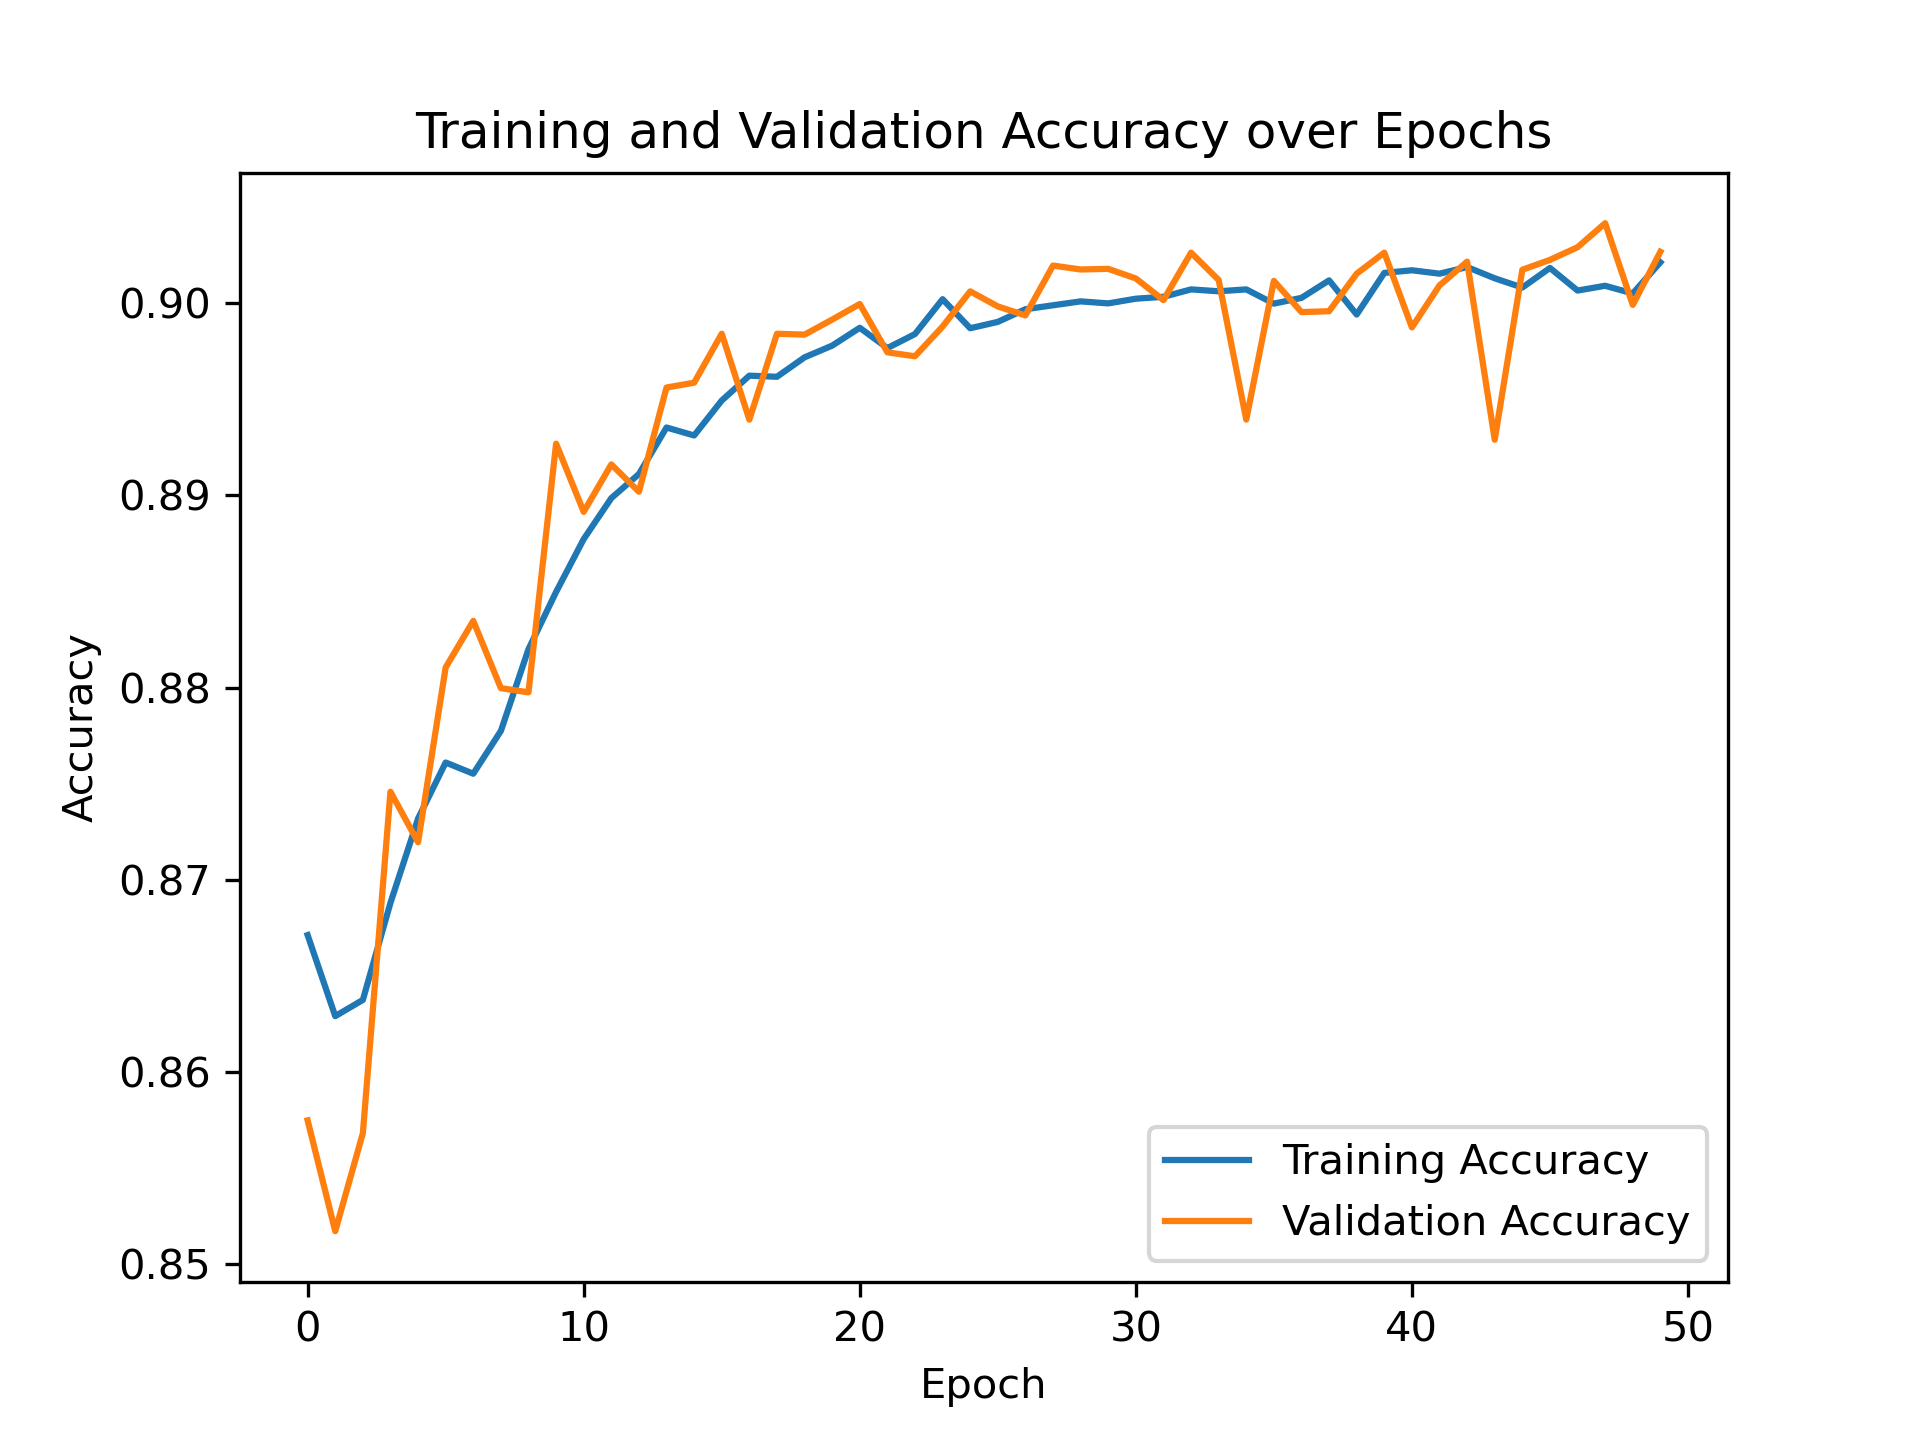
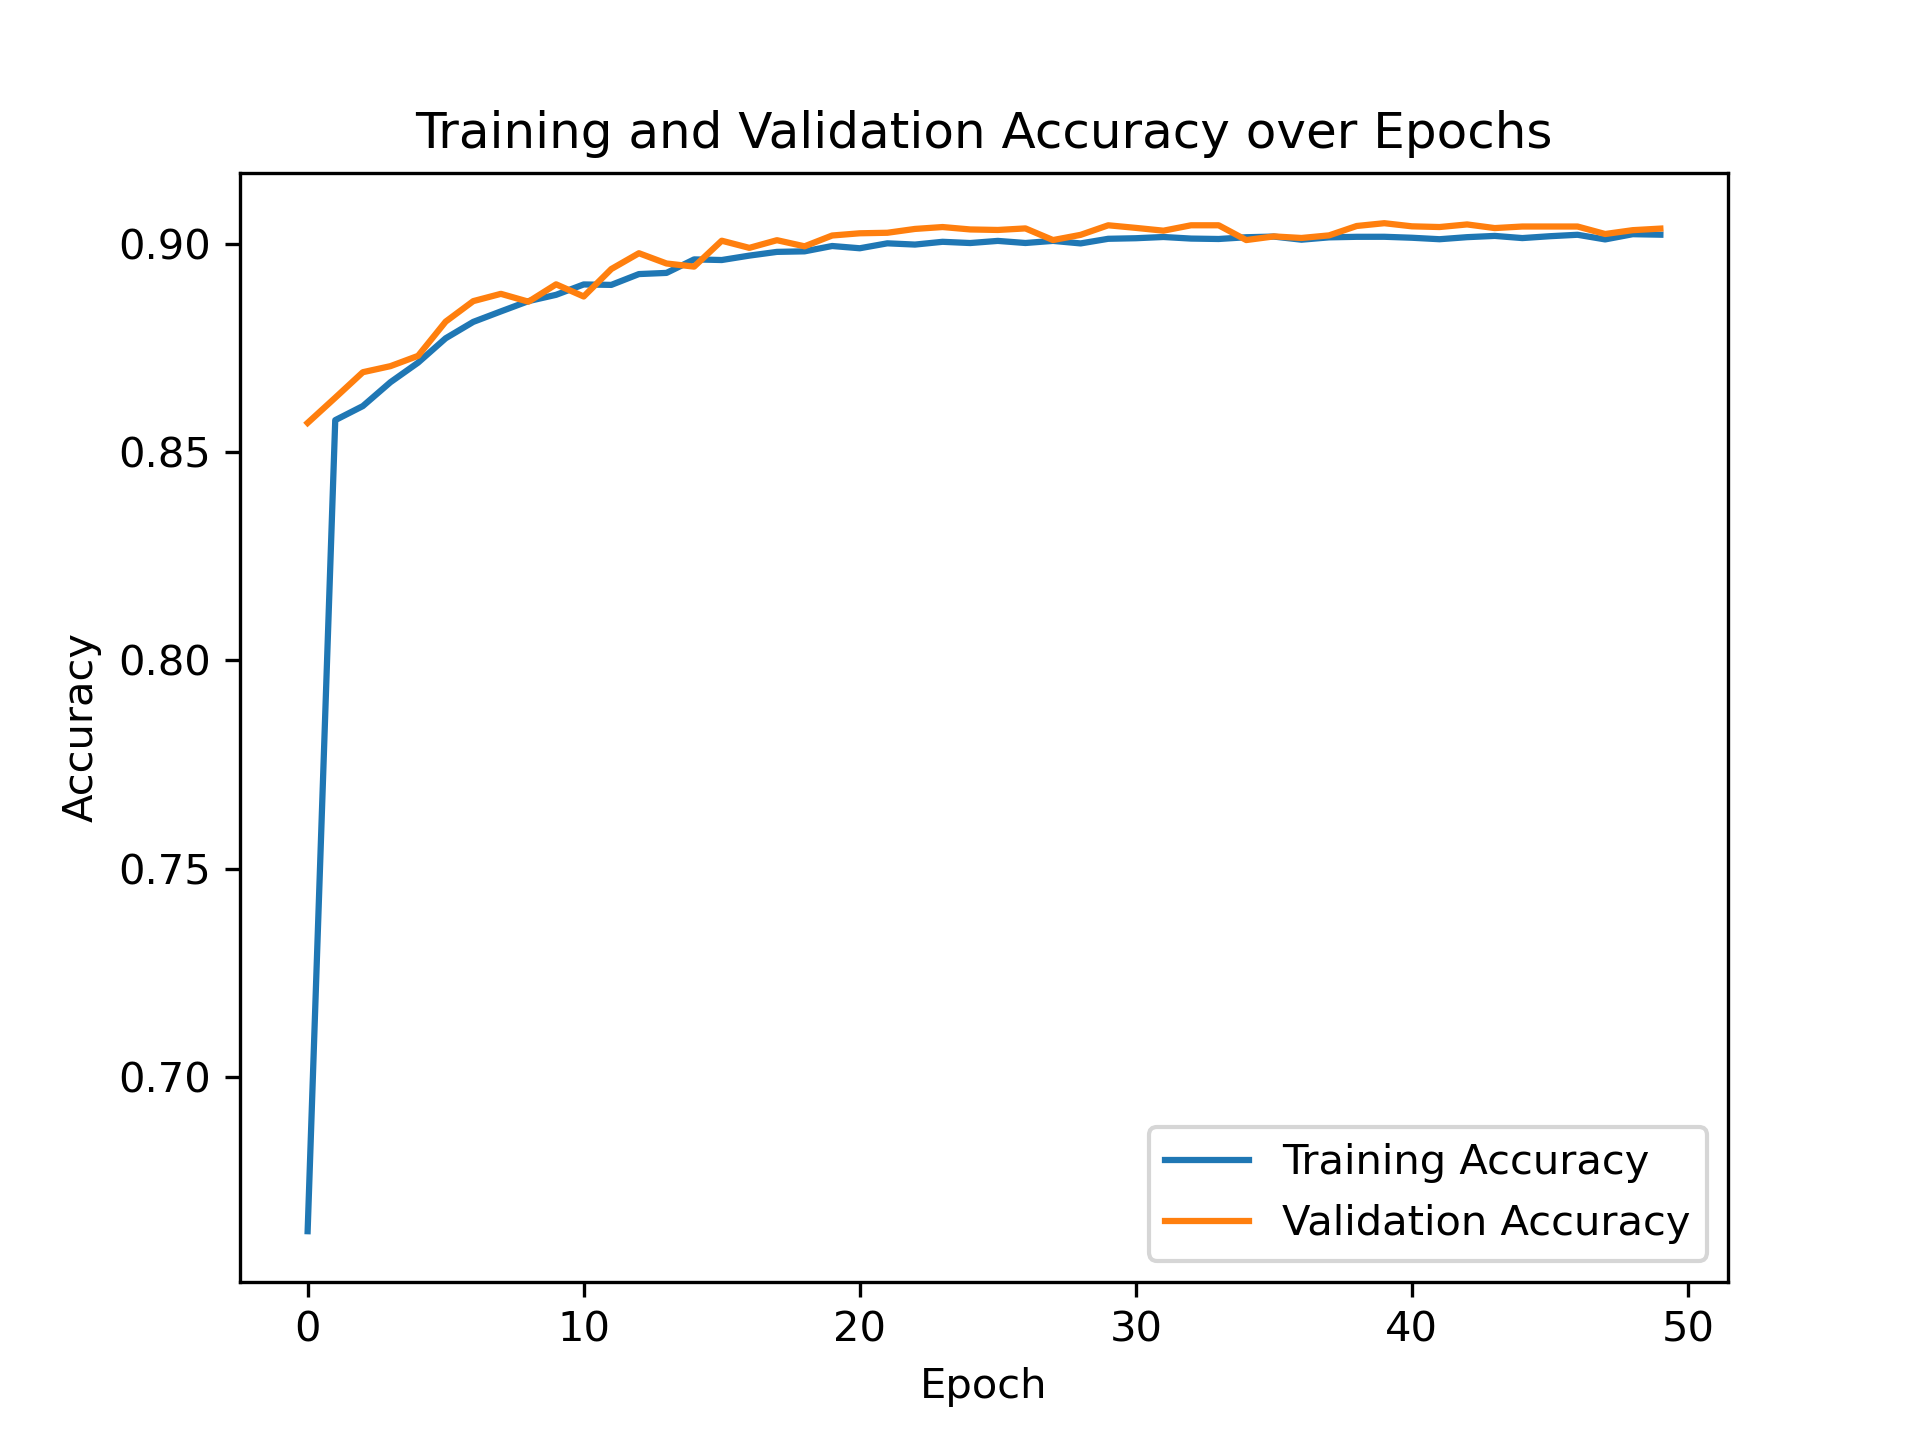
computed correlation comparisons between NN model predicted probabilities and BMI

diff --git a/analyze_model.py b/analyze_model.py
@@ -6,6 +6,7 @@ import numpy as np
 
 from data import IBMIDataset
 from network import MultivariateLogisticRegression
+from deep_neural_network import DeepNeuralNetwork
 from torch.utils.data import DataLoader
 
 def plot_loss_curve(train_losses, val_losses, save_path):
@@ -32,20 +33,20 @@ def plot_accuracy_curve(train_accuracies, val_accuracies, save_path):
 
 def analyze_model(model, data_loader, device, output_dir):
     
-    # analyze model weights
-    weights = model.linear.weight.data.cpu().numpy()
-    num_conditions = weights.shape[0]
-    feature_names = data_loader.dataset.features.columns.tolist()
-    # take L2 norm of weights for each feature across all conditions, to get overall importance
-    weight_magnitudes = np.linalg.norm(weights, axis=0)
-    feature_importance = pd.DataFrame({
-        'Feature': feature_names,
-        'Weight_Magnitude': weight_magnitudes
-    }).sort_values(by='Weight_Magnitude', ascending=False)
-    feature_importance.to_csv(os.path.join(output_dir, "feature_importance.csv"), index=False)
+    # # analyze model weights
+    # weights = model.linear.weight.data.cpu().numpy()
+    # num_conditions = weights.shape[0]
+    # feature_names = data_loader.dataset.features.columns.tolist()
+    # # take L2 norm of weights for each feature across all conditions, to get overall importance
+    # weight_magnitudes = np.linalg.norm(weights, axis=0)
+    # feature_importance = pd.DataFrame({
+    #     'Feature': feature_names,
+    #     'Weight_Magnitude': weight_magnitudes
+    # }).sort_values(by='Weight_Magnitude', ascending=False)
+    # feature_importance.to_csv(os.path.join(output_dir, "feature_importance.csv"), index=False)
 
     # plot loss and accuracy curves
-    loss_csv_path = os.path.join(MODEL_DIR, "training_loss.csv")
+    loss_csv_path = os.path.join(MODEL_DIR, "nn_training_history_dnn.csv")
     if os.path.exists(loss_csv_path):
         loss_df = pd.read_csv(loss_csv_path)
         train_losses = loss_df['train_loss'].tolist()
@@ -53,16 +54,46 @@ def analyze_model(model, data_loader, device, output_dir):
         train_accuracies = loss_df['train_accuracy'].tolist()
         val_accuracies = loss_df['val_accuracy'].tolist()
 
-        plot_loss_curve(train_losses, val_losses, os.path.join(output_dir, "loss_curve.png"))
-        plot_accuracy_curve(train_accuracies, val_accuracies, os.path.join(output_dir, "accuracy_curve.png"))
+        plot_loss_curve(train_losses, val_losses, os.path.join(output_dir, "loss_curve_nn.png"))
+        plot_accuracy_curve(train_accuracies, val_accuracies, os.path.join(output_dir, "accuracy_curve_nn.png"))
 
+# Compute correlation between model probabilities and true value, vs BMI and true value
+def compute_correlation(model, data_loader, bmi, device, output_dir):
+    model.eval()
+    all_outputs = []
+    all_labels = []
+    with torch.no_grad():
+        for batch in data_loader:
+            features = batch['features'].to(device)
+            labels = batch['labels'].to(device)
+            outputs = model(features)
+            all_outputs.append(outputs.cpu().numpy())
+            all_labels.append(labels.cpu().numpy())
+    all_outputs = np.vstack(all_outputs)
+    all_labels = np.vstack(all_labels)
+
+    correlations_model = []
+    correlations_bmi = []
+    num_conditions = all_labels.shape[1]
+    for i in range(num_conditions):
+        corr_model = np.corrcoef(all_outputs[:, i], all_labels[:, i])[0, 1]
+        corr_bmi = np.corrcoef(bmi, all_labels[:, i])[0, 1]
+        correlations_model.append(corr_model)
+        correlations_bmi.append(corr_bmi)
+
+    correlation_df = pd.DataFrame({
+        'Condition': data_loader.dataset.label_cols,
+        'Correlation_Model': correlations_model,
+        'Correlation_BMI': correlations_bmi
+    })
+    correlation_df.to_csv(os.path.join(output_dir, "correlation_analysis.csv"), index=False)
 
 if __name__ == "__main__":
     DATA_DIR = r"data"
     MODEL_DIR = r"models"
     OUTPUT_DIR = r"analysis"
     CSV_FILE = os.path.join(DATA_DIR, "nhanes_merged_complete.csv")
-    MODEL_LOAD_PATH = os.path.join(MODEL_DIR, "multivariate_logistic_regression.pth")
+    MODEL_LOAD_PATH = os.path.join(MODEL_DIR, "best_deep_neural_network_dnn.pth")
     LOSS_SAVE_PATH = os.path.join(MODEL_DIR, "training_loss.csv")
     BATCH_SIZE = 64
     DEVICE = torch.device("cuda" if torch.cuda.is_available() else "cpu")
@@ -72,11 +103,14 @@ if __name__ == "__main__":
     # Load dataset
     dataset = IBMIDataset(csv_file=CSV_FILE)
     data_loader = DataLoader(dataset, batch_size=BATCH_SIZE, shuffle=False)
+    # Load just BMI from csv
+    bmi = pd.read_csv(CSV_FILE)['BMI'].values.astype('float32')
 
     # Load model
-    model = MultivariateLogisticRegression(input_dim=dataset.num_features, output_dim=dataset.num_labels)
+    model = DeepNeuralNetwork(input_dim=dataset.num_features, output_dim=dataset.num_labels)
     model.load_state_dict(torch.load(MODEL_LOAD_PATH, map_location=DEVICE))
     model.to(DEVICE)
 
     # Analyze model
     analyze_model(model, data_loader, DEVICE, OUTPUT_DIR)
+    compute_correlation(model, data_loader, bmi, DEVICE, OUTPUT_DIR)

diff --git a/data.py b/data.py
@@ -14,7 +14,7 @@ class IBMIDataset(Dataset):
                            'Diagnosed_Hypertension',
                            'Diagnosed_Thyroid_Problem',
                            'CVD_Diagnosed']
-        self.features = self.data_frame.drop(columns=self.label_cols + ['User_ID', 'Mortality_Status', 'BMI', 'Age_First_Period'])
+        self.features = self.data_frame.drop(columns=self.label_cols + ['User_ID', 'Mortality_Status', 'BMI', 'Age_First_Period', 'Waist_Circumference_cm'])
         self.labels = self.data_frame[self.label_cols]
         self.num_features = self.features.shape[1]
         self.num_labels = self.labels.shape[1]
